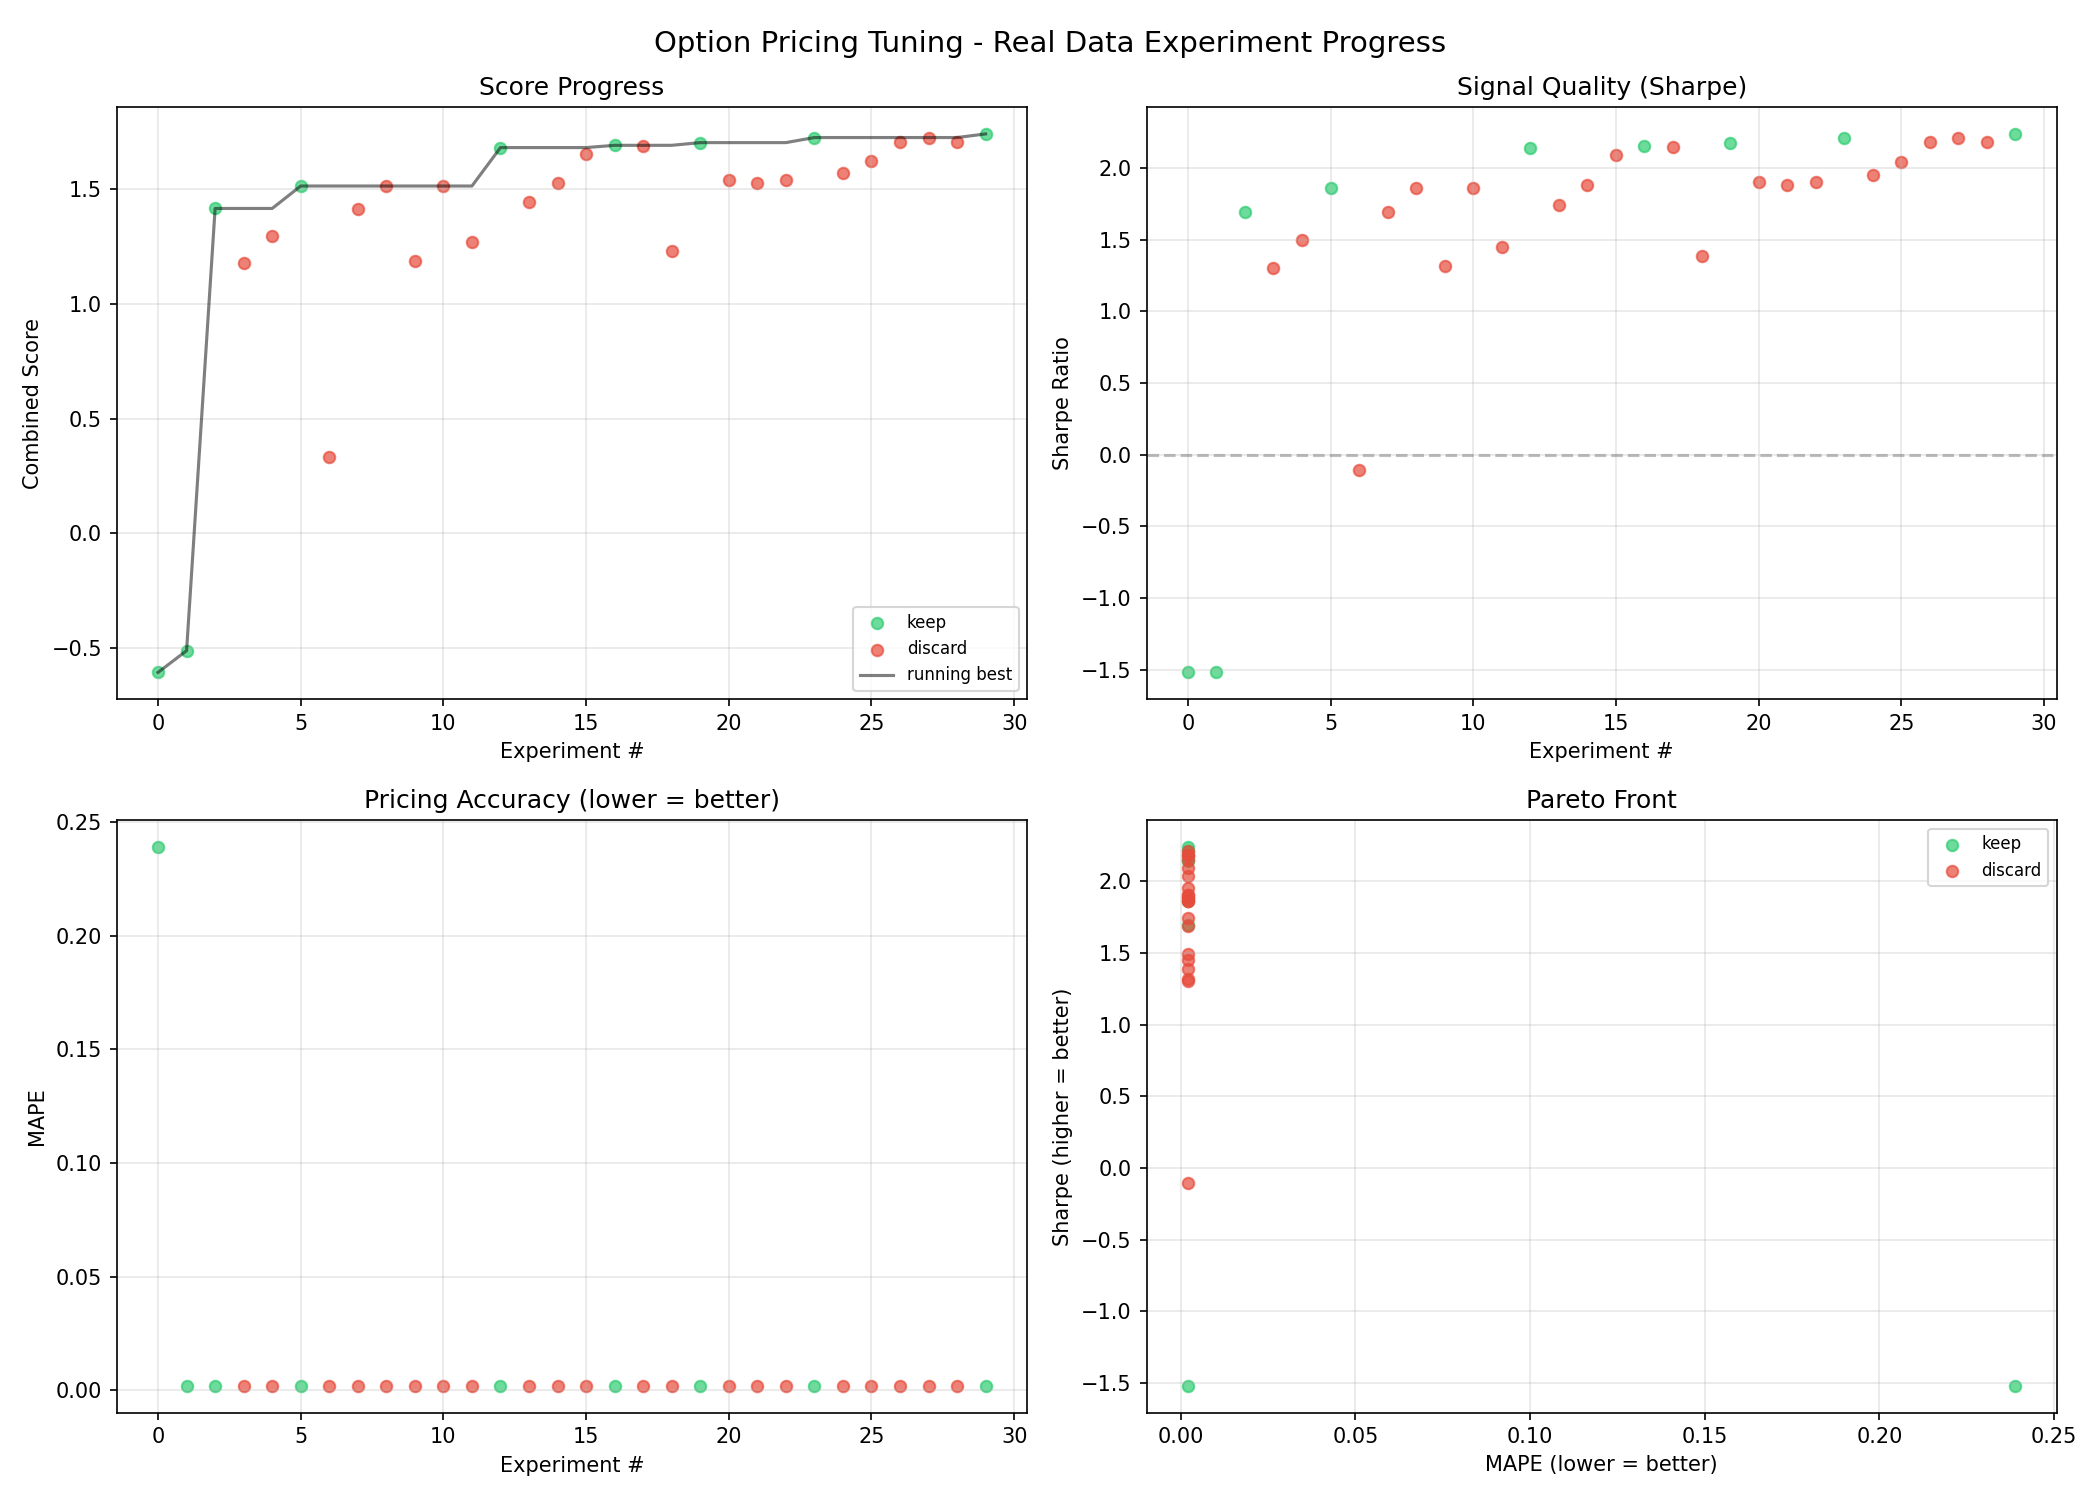
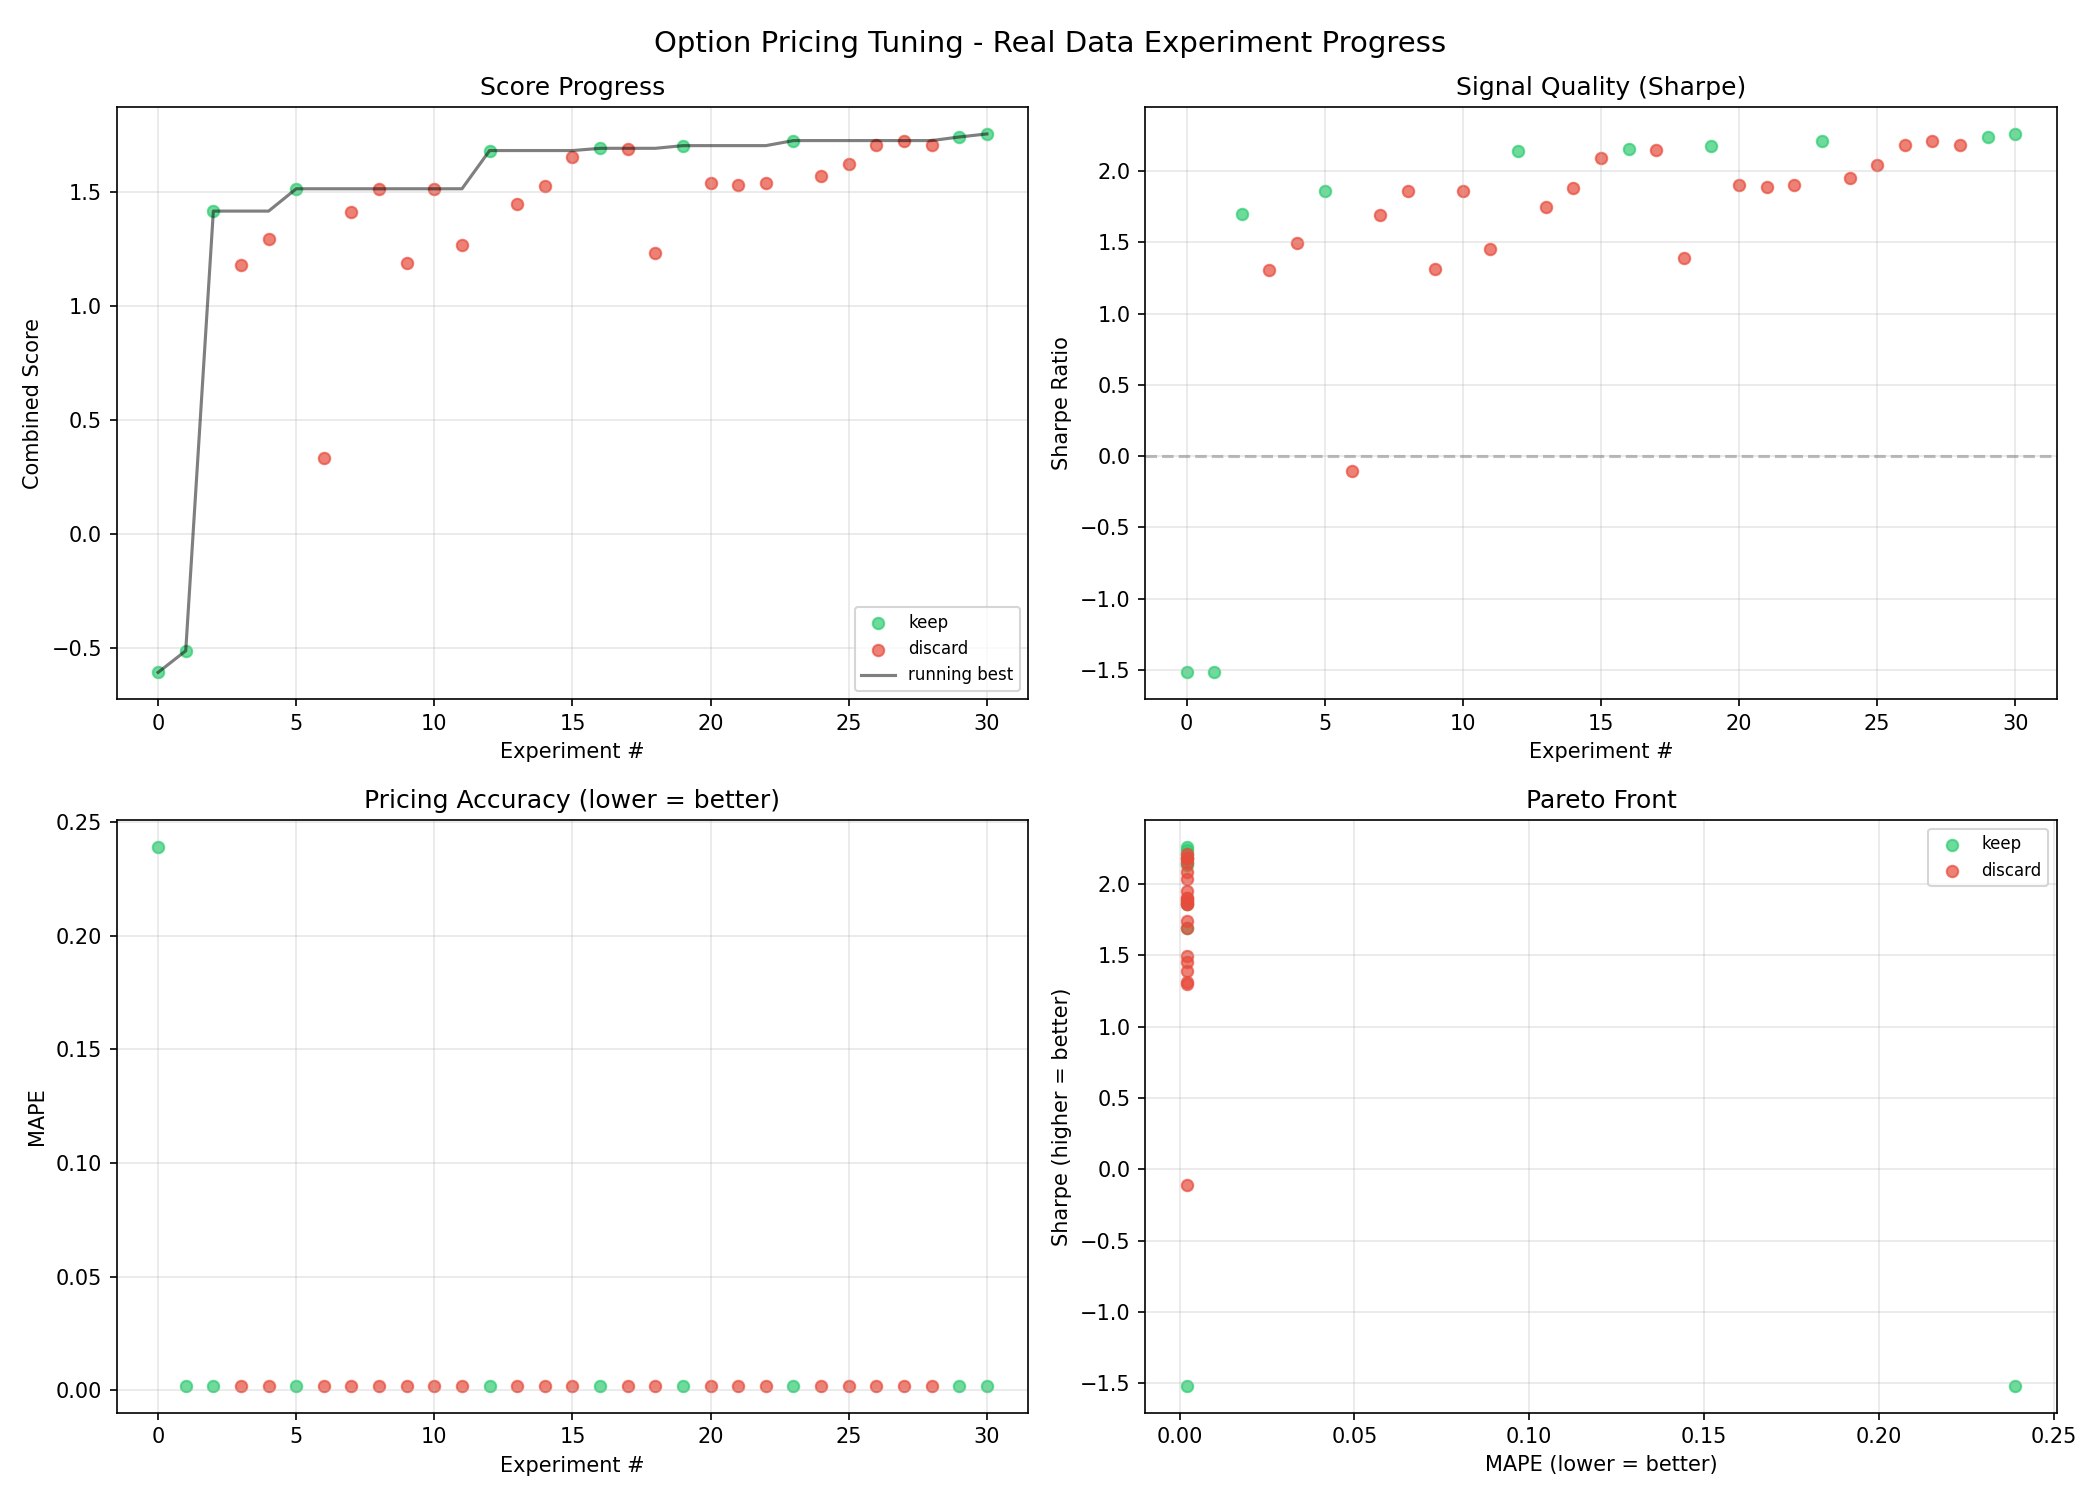
Update results after exp 30

diff --git a/README.md b/README.md
@@ -9,12 +9,12 @@ signals using **real stock market data** from Yahoo Finance.
 
 | Metric | Value |
 |---|---|
-| Combined Score | 1.7417 |
-| Sharpe Ratio | 2.2376 |
+| Combined Score | 1.7551 |
+| Sharpe Ratio | 2.2599 |
 | MAPE | 0.002026 |
 | Win Rate | 84.2% |
 | Trades | 19 |
-| Experiments | 30 (9 kept) |
+| Experiments | 31 (10 kept) |
 
 ## How It Works
 
